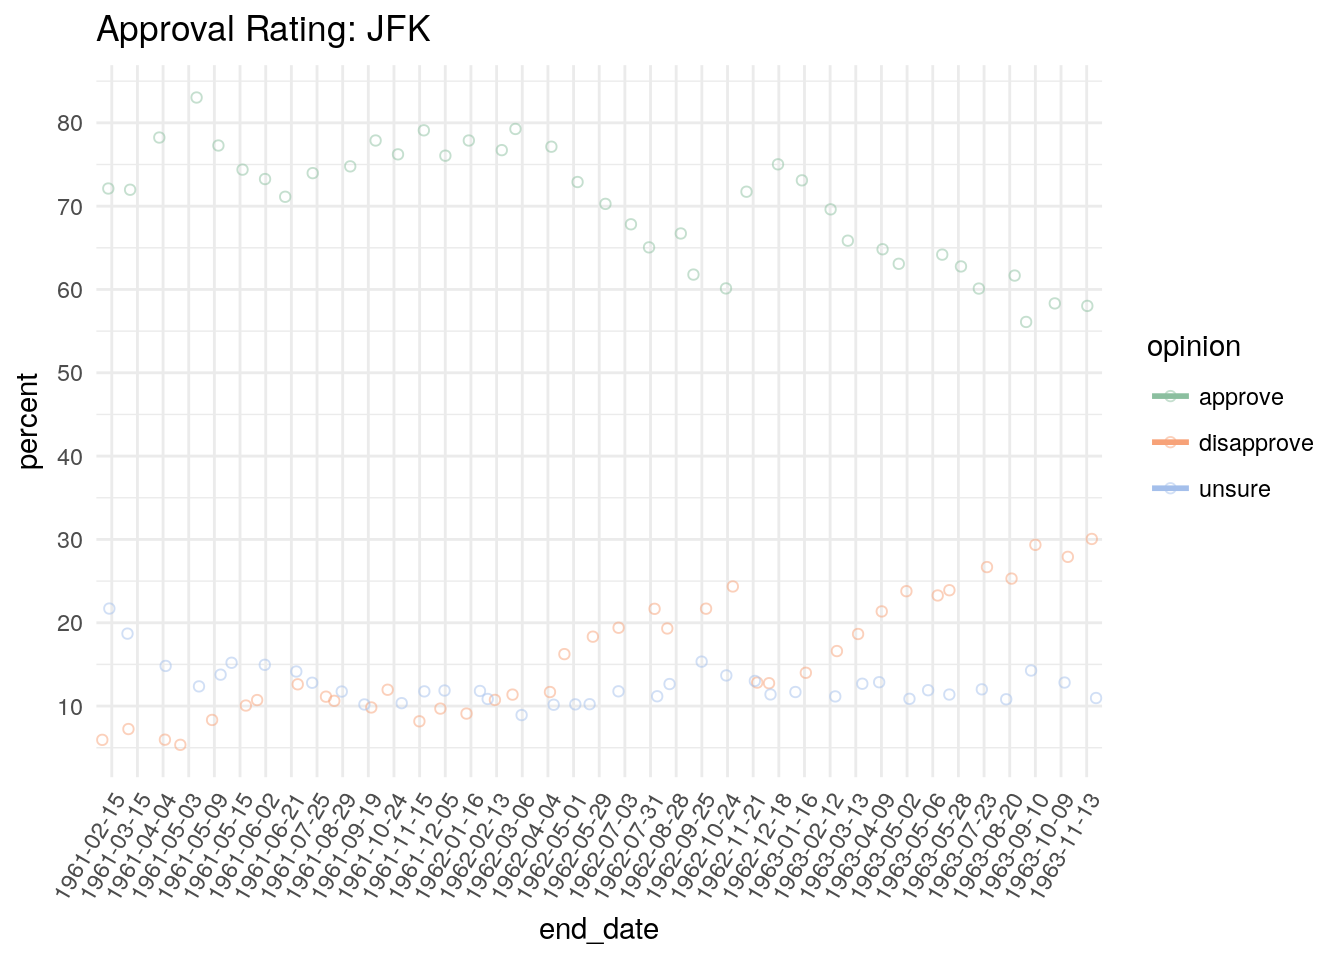
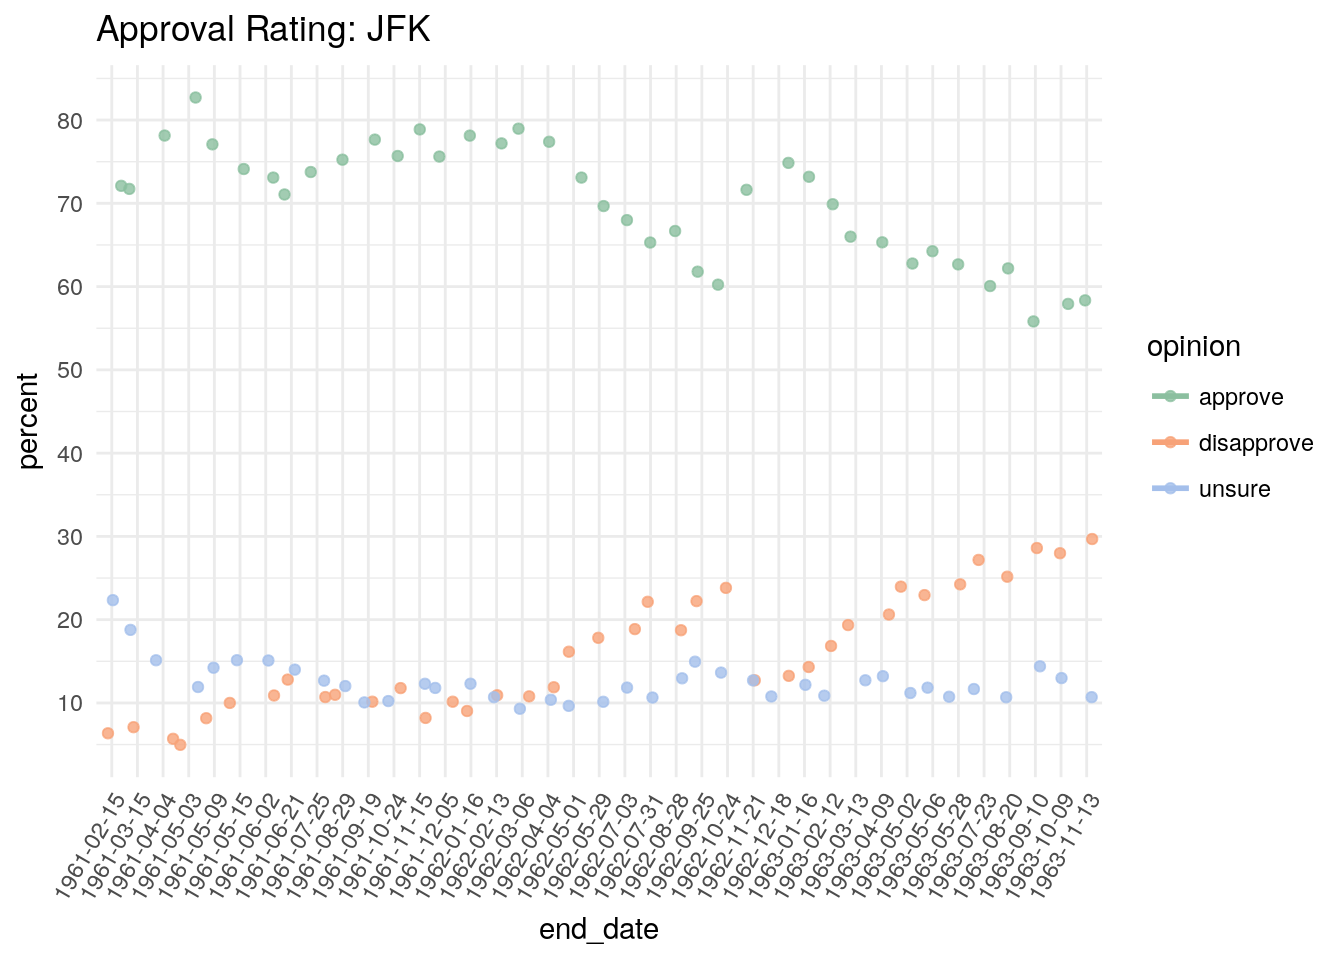
added scraping presidential approval part 2

diff --git a/public/2017/12/scraping-presidential-approval---part-2/index.html b/public/2017/12/scraping-presidential-approval---part-2/index.html
@@ -287,13 +287,14 @@ for (i in 1:(45-31)){
 tidy_pres %&gt;%
   filter(number == &quot;35&quot;) %&gt;%
   ggplot(aes(x = end_date, y = percent, col = opinion)) +
-  geom_jitter(alpha = 0.5, shape = 1) +
-  geom_smooth(method = &quot;gam&quot;,  formula = y ~ s(x, bs = &quot;cs&quot;), se = F) +
+  geom_jitter(alpha = 0.8) +
+  stat_smooth(span = 0.3, se= F) +
   scale_y_continuous(breaks = seq(0, 100, by = 10)) +
   theme_minimal() +
   theme(axis.text.x=element_text(angle=60, hjust=1)) + 
   scale_colour_manual(values = cols) + 
   ggtitle(&quot;Approval Rating: JFK&quot;, subtitle = NULL)</code></pre>
+<pre><code>## `geom_smooth()` using method = &#39;loess&#39; and formula &#39;y ~ x&#39;</code></pre>
 <p><img src="/post/2017-12-16-scraping-presidential-approval-part-2_files/figure-html/unnamed-chunk-5-1.png" width="672" /></p>
 <p>I made a shiny app:</p>
 <iframe src="https://daniel-mikel.shinyapps.io/pres_approve_ucsb/?showcase=0" width="768" height="650px">

diff --git a/content/post/2017-12-16-scraping-presidential-approval-part-2.html b/content/post/2017-12-16-scraping-presidential-approval-part-2.html
@@ -62,13 +62,14 @@ for (i in 1:(45-31)){
 tidy_pres %&gt;%
   filter(number == &quot;35&quot;) %&gt;%
   ggplot(aes(x = end_date, y = percent, col = opinion)) +
-  geom_jitter(alpha = 0.5, shape = 1) +
-  geom_smooth(method = &quot;gam&quot;,  formula = y ~ s(x, bs = &quot;cs&quot;), se = F) +
+  geom_jitter(alpha = 0.8) +
+  stat_smooth(span = 0.3, se= F) +
   scale_y_continuous(breaks = seq(0, 100, by = 10)) +
   theme_minimal() +
   theme(axis.text.x=element_text(angle=60, hjust=1)) + 
   scale_colour_manual(values = cols) + 
   ggtitle(&quot;Approval Rating: JFK&quot;, subtitle = NULL)</code></pre>
+<pre><code>## `geom_smooth()` using method = &#39;loess&#39; and formula &#39;y ~ x&#39;</code></pre>
 <p><img src="/post/2017-12-16-scraping-presidential-approval-part-2_files/figure-html/unnamed-chunk-5-1.png" width="672" /></p>
 <p>I made a shiny app:</p>
 <iframe src="https://daniel-mikel.shinyapps.io/pres_approve_ucsb/?showcase=0" width="768" height="650px">
